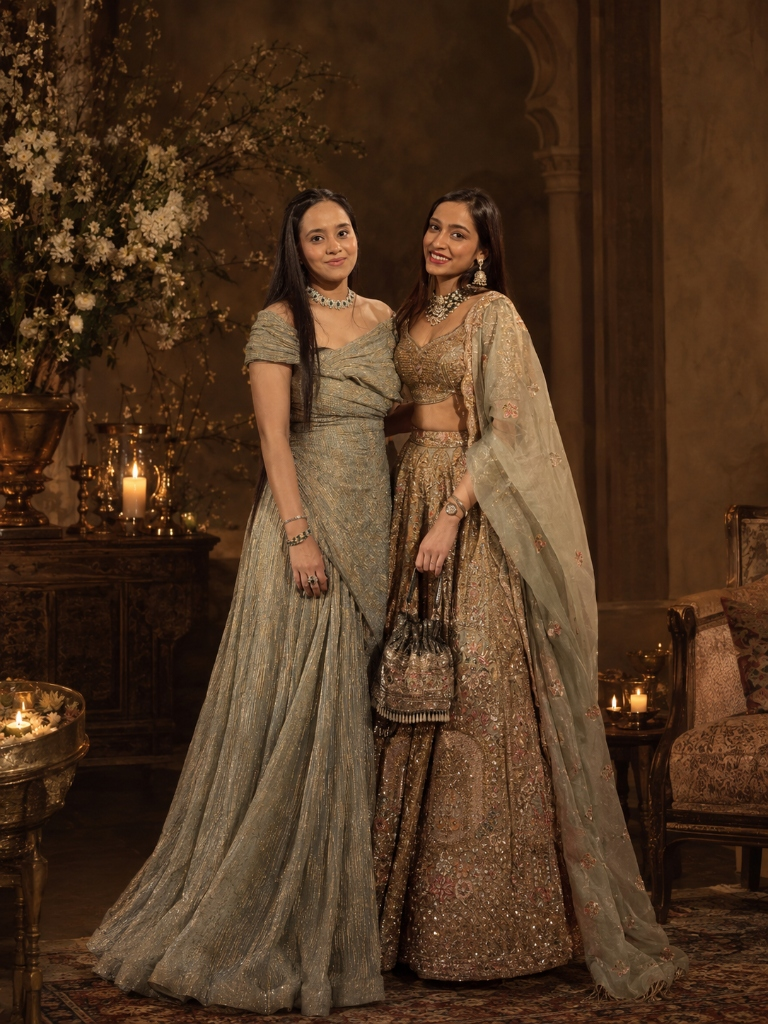
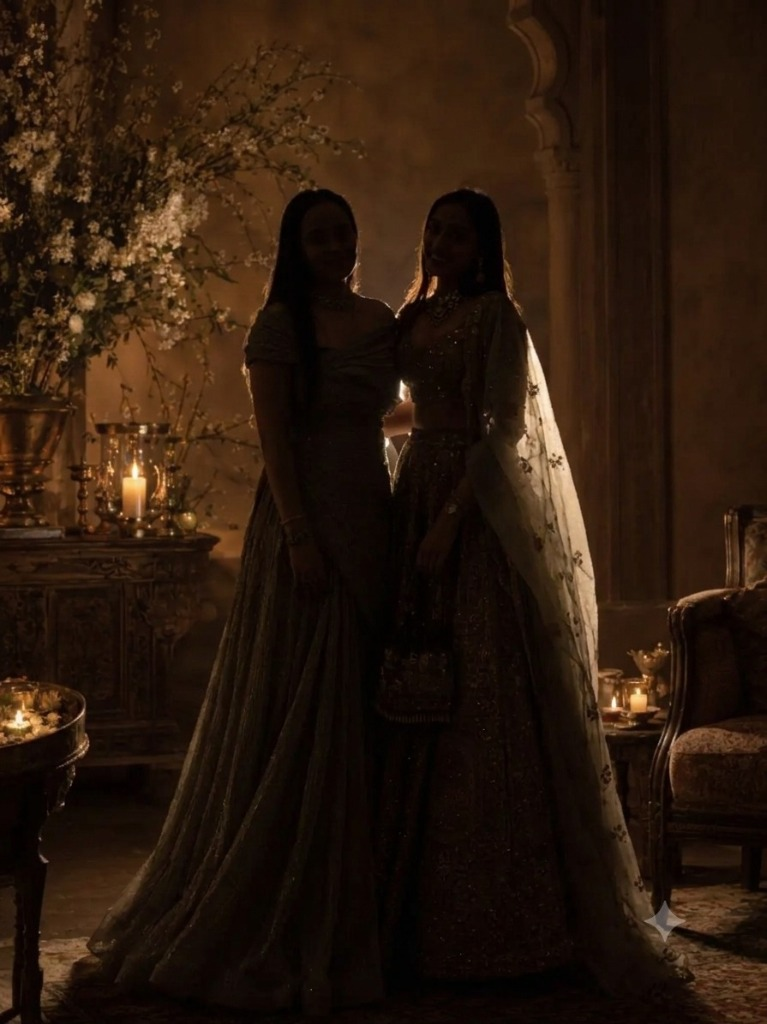
Hide Archive and Sisters sections, update Legacy narrative and photo

diff --git a/src/content/site.ts b/src/content/site.ts
@@ -29,8 +29,8 @@ export const site = {
   /** Home page header pills. */
   nav: [
     { label: "The Maison", href: "/chambers/legacy" },
-    { label: "The Sisters", href: "/sisters" },
-    { label: "The Archive", href: "/archive" },
+    // { label: "The Sisters", href: "/sisters" }, // Hidden for now
+    // { label: "The Archive", href: "/archive" }, // Hidden for now
     { label: "The Concierge", href: "/concierge" },
   ],
 
@@ -69,9 +69,9 @@ export const site = {
   legacy: {
     lead: "Heritage, seen through a new lens.",
     body:
-      "Born into the fifth generation of the Rambhajos family, jewellery has always been a part of Harshi and Ritvi’s world. Growing up in Jaipur, surrounded by a living legacy of treasures, stories and generations of craft, shaped their understanding of jewellery from the very beginning. Maison Harivé emerged from this heritage, carrying the soul of Jaipur into a new expression. The sisters bring together the richness of Indian craftsmanship with the elegance, restraint and spirit of French culture. Rooted in where they come from, yet inspired by where the world is going, Maison Harivé is their own interpretation of heritage.\n\nA new house, where Jaipur meets France, and an old legacy finds a new language.",
+      "Born into the fifth generation of a family, jewellery has always been a part of their world. Growing up in Jaipur, surrounded by a living legacy of treasures, stories and generations of craft, shaped their understanding of jewellery from the very beginning. Maison Harivé emerged from this heritage, carrying the soul of Jaipur into a new expression. The sisters bring together the richness of Indian craftsmanship with the elegance, restraint and spirit of French culture. Rooted in where they come from, yet inspired by where the world is going, Maison Harivé is their own interpretation of heritage.\n\nA new house, where Jaipur meets France, and an old legacy finds a new language.",
     portrait: "[ HERITAGE PORTRAIT / FILM ]",
-    image: "/media/heritage-portrait.jpg",
+    image: "/media/legacy-portrait-v2.jpg",
     conceptEyebrow: "THE CONCEPT",
     concept: "Every piece, a royal artefact with its own story.",
   },

diff --git a/src/components/concierge/ConciergeView.tsx b/src/components/concierge/ConciergeView.tsx
@@ -164,9 +164,9 @@ export function ConciergeView({
               </button>
             ) : (
               <Link
-                href="/archive"
+                href="/chambers"
                 className="font-display text-[12px] tracking-[0.2em] text-gold-bright uppercase transition-colors hover:text-gold-pale"
-                aria-label="Return to Archive"
+                aria-label="Return to Chambers"
               >
                 ←
               </Link>
@@ -276,10 +276,10 @@ export function ConciergeView({
                   Submit Another Request
                 </Button>
                 <Link
-                  href="/archive"
+                  href="/chambers"
                   className="inline-flex items-center justify-center rounded-btn bg-gold px-8 py-3.5 font-display text-[13px] font-bold tracking-[0.28em] text-on-gold shadow-glow hover:bg-gold-bright"
                 >
-                  Return to Archive
+                  Return to The Chambers
                 </Link>
               </div>
             </motion.div>

diff --git a/src/components/MaisonFooter.tsx b/src/components/MaisonFooter.tsx
@@ -66,11 +66,11 @@ export function MaisonFooter({ className = "" }: MaisonFooterProps) {
                   Home
                 </Link>
               </li>
-              <li>
+              {/* <li>
                 <Link href="/archive" className="transition-colors hover:text-gold-bright">
                   The Archive
                 </Link>
-              </li>
+              </li> */}
               <li>
                 <Link href="/treasures" className="transition-colors hover:text-gold-bright">
                   All Treasures
@@ -86,11 +86,11 @@ export function MaisonFooter({ className = "" }: MaisonFooterProps) {
                   The Concierge
                 </Link>
               </li>
-              <li>
+              {/* <li>
                 <Link href="/sisters" className="transition-colors hover:text-gold-bright">
                   The Sisters
                 </Link>
-              </li>
+              </li> */}
             </ul>
           </div>
 

diff --git a/src/app/not-found.tsx b/src/app/not-found.tsx
@@ -12,10 +12,10 @@ export default function NotFound() {
         left={<Logo className="text-base tracking-[0.3em]" />}
         right={
           <Link
-            href="/archive"
+            href="/chambers"
             className="font-display text-[12px] tracking-[0.25em] text-gold-bright uppercase transition-colors hover:text-gold-pale"
           >
-            The Archive
+            The Chambers
           </Link>
         }
       />
@@ -31,7 +31,7 @@ export default function NotFound() {
         </p>
 
         <div className="mt-10 flex flex-wrap justify-center gap-4">
-          <ButtonLink href="/archive">EXPLORE THE ARCHIVE</ButtonLink>
+          <ButtonLink href="/chambers">EXPLORE THE CHAMBERS</ButtonLink>
           <ButtonLink href="/" variant="secondary">
             RETURN TO THE GATES
           </ButtonLink>

diff --git a/src/app/archive/[id]/page.tsx b/src/app/archive/[id]/page.tsx
@@ -1,7 +1,7 @@
 import type { Metadata } from "next";
 import Image from "next/image";
 import Link from "next/link";
-import { notFound } from "next/navigation";
+import { notFound, redirect } from "next/navigation";
 import { BackButton } from "@/components/BackButton";
 import { Logo, SiteHeader, HeaderEyebrow } from "@/components/SiteHeader";
 import { ButtonLink, Eyebrow, GoldBackdrop, Numeral } from "@/components/ui";
@@ -25,6 +25,7 @@ export async function generateMetadata({ params }: PageProps<"/archive/[id]">): 
 }
 
 export default async function ProductPage({ params }: PageProps<"/archive/[id]">) {
+  redirect("/chambers");
   const { id } = await params;
   const all = await getStoreProducts();
   const product = all.find((p) => p.id === id);

diff --git a/src/components/chambers/ChambersStage.tsx b/src/components/chambers/ChambersStage.tsx
@@ -345,14 +345,14 @@ function StageHeader() {
           >
             THE CONCIERGE
           </Link>
-          <Link
+          {/* <Link
             href="/sisters"
             className="group flex items-center gap-2.5 rounded-pill border border-gold bg-gold/12 px-4 py-2.5 text-[15px] whitespace-nowrap text-gold-bright italic transition-colors duration-300 hover:bg-gold/20 md:px-[18px] md:text-nav"
           >
             <span className="md:hidden">The Sisters</span>
             <span className="hidden md:inline">The Women Behind the Door</span>
             <ArrowRight size={16} className="transition-transform duration-300 ease-royal group-hover:translate-x-0.5" />
-          </Link>
+          </Link> */}
         </div>
       }
     />

diff --git a/src/components/archive/BagModal.tsx b/src/components/archive/BagModal.tsx
@@ -189,11 +189,11 @@ export function BagModal({ isOpen, onClose }: BagModalProps) {
               ) : (
                 <div className="flex flex-col gap-2.5">
                   <Link
-                    href="/archive"
+                    href="/chambers"
                     onClick={onClose}
                     className="inline-flex items-center justify-center rounded-btn bg-gold px-6 py-3 font-display text-[12px] font-bold tracking-[0.25em] text-on-gold shadow-glow hover:bg-gold-bright transition-all"
                   >
-                    EXPLORE THE ARCHIVE
+                    EXPLORE THE CHAMBERS
                   </Link>
                   <button
                     type="button"

diff --git a/src/components/chambers/AtelierChamber.tsx b/src/components/chambers/AtelierChamber.tsx
@@ -218,9 +218,9 @@ export function AtelierChamber() {
               <ButtonLink href="#private-viewing" className="px-8 py-4 md:text-[13px] md:tracking-[0.28em]">
                 REQUEST A PRIVATE VIEWING
               </ButtonLink>
-              <ButtonLink href="/archive" variant="secondary" className="px-8 py-4 md:text-[13px] md:tracking-[0.28em]">
+              {/* <ButtonLink href="/archive" variant="secondary" className="px-8 py-4 md:text-[13px] md:tracking-[0.28em]">
                 EXPLORE THE ARCHIVE
-              </ButtonLink>
+              </ButtonLink> */}
             </div>
           </div>
         </div>

diff --git a/src/components/chambers/LegacyChamber.tsx b/src/components/chambers/LegacyChamber.tsx
@@ -28,9 +28,9 @@ export function LegacyChamber() {
               <ButtonLink href="/chambers/atelier" className="px-7 md:text-[13px] md:tracking-[0.28em]">
                 CHAMBER II · NEW CHAPTER
               </ButtonLink>
-              <ButtonLink href="/sisters" variant="secondary" className="px-7 md:text-[13px] md:tracking-[0.28em]">
+              {/* <ButtonLink href="/sisters" variant="secondary" className="px-7 md:text-[13px] md:tracking-[0.28em]">
                 THE SISTERS
-              </ButtonLink>
+              </ButtonLink> */}
             </div>
           </div>
           <FramedPlaceholder

diff --git a/src/app/archive/page.tsx b/src/app/archive/page.tsx
@@ -1,6 +1,5 @@
 import type { Metadata } from "next";
-import { ArchivePage } from "@/components/archive/ArchivePage";
-import { getStoreProducts } from "@/lib/products-store";
+import { redirect } from "next/navigation";
 
 export const metadata: Metadata = {
   title: "The Archive · Products",
@@ -11,6 +10,6 @@ export const metadata: Metadata = {
 export const revalidate = 30;
 
 export default async function Archive() {
-  const products = await getStoreProducts();
-  return <ArchivePage products={products} />;
+  // The Archive section is hidden for now
+  redirect("/chambers");
 }

diff --git a/src/app/disclaimer/page.tsx b/src/app/disclaimer/page.tsx
@@ -18,10 +18,10 @@ export default function DisclaimerPage() {
         left={<Logo className="text-base tracking-[0.3em]" />}
         right={
           <Link
-            href="/archive"
+            href="/chambers"
             className="font-display text-[12px] tracking-[0.25em] text-gold-bright uppercase transition-colors hover:text-gold-pale"
           >
-            The Archive
+            The Chambers
           </Link>
         }
       />

diff --git a/src/app/privacy/page.tsx b/src/app/privacy/page.tsx
@@ -18,10 +18,10 @@ export default function PrivacyPage() {
         left={<Logo className="text-base tracking-[0.3em]" />}
         right={
           <Link
-            href="/archive"
+            href="/chambers"
             className="font-display text-[12px] tracking-[0.25em] text-gold-bright uppercase transition-colors hover:text-gold-pale"
           >
-            The Archive
+            The Chambers
           </Link>
         }
       />
